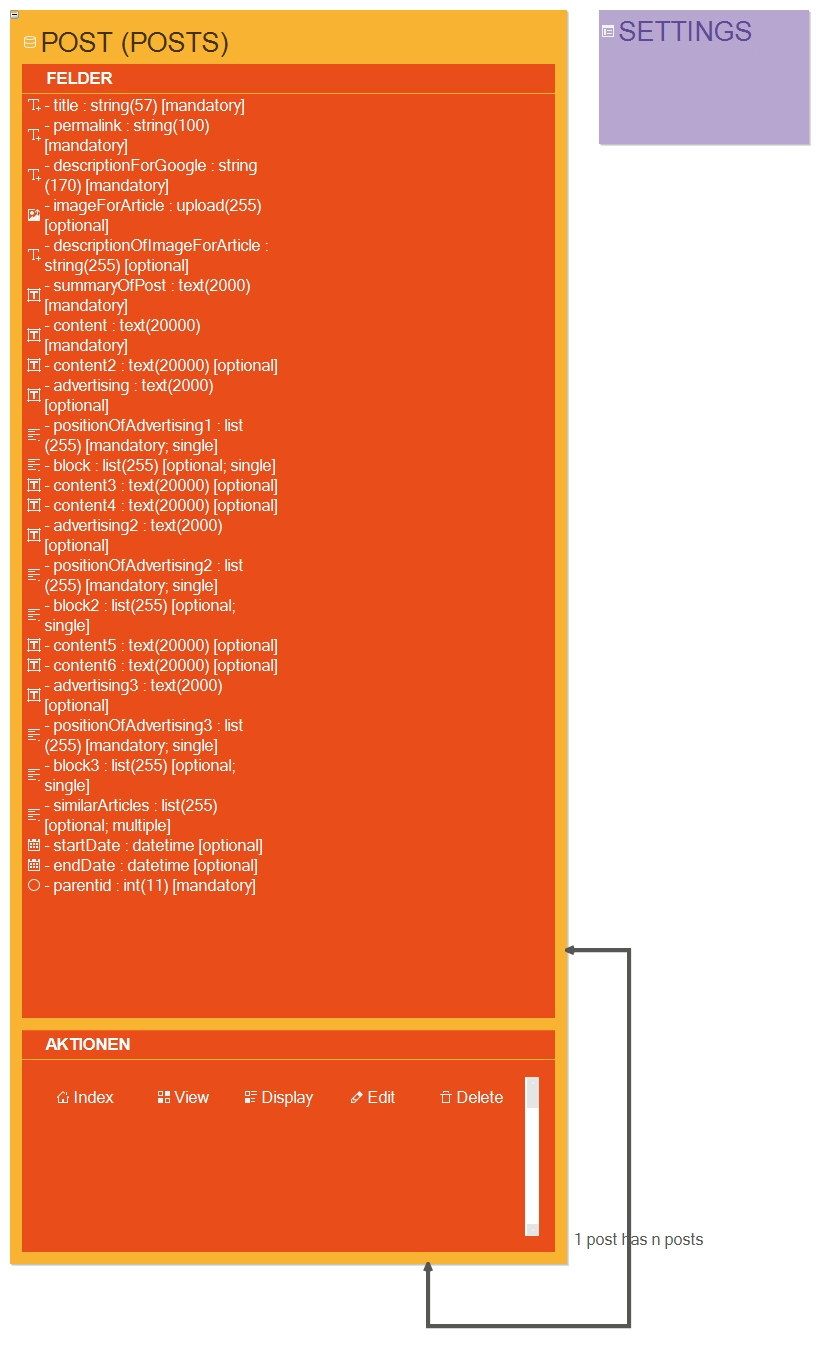
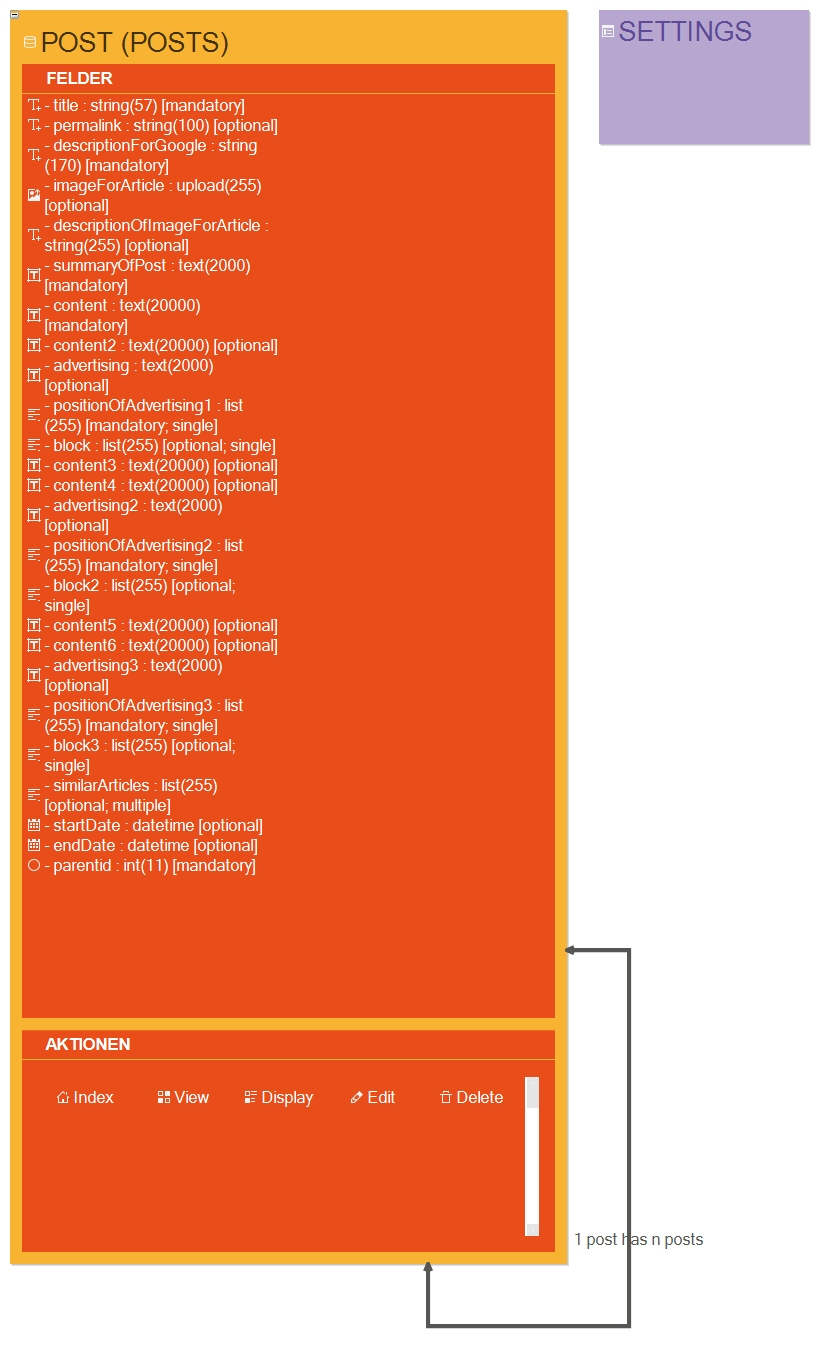
permalink not required
and if empty the title will put into

Changed region(s): [[0.0305, 0.0931, 0.335, 0.6824]]

diff --git a/MU/BloggingModule/Entity/PostEntity.php b/MU/BloggingModule/Entity/PostEntity.php
@@ -32,5 +32,17 @@ use Symfony\Bridge\Doctrine\Validator\Constraints\UniqueEntity;
  */
 class PostEntity extends BaseEntity
 {
-    // feel free to add your own methods here
+    /**
+     * Sets the permalink.
+     *
+     * @param string $permalink
+     *
+     * @return void
+     */
+    public function setPermalink($permalink)
+    {
+        if ($this->permalink !== $permalink) {
+            $this->permalink = isset($permalink) ? $permalink : $this->title;
+        }
+    }
 }

diff --git a/MU/BloggingModule/Form/Type/Base/AbstractPostType.php b/MU/BloggingModule/Form/Type/Base/AbstractPostType.php
@@ -157,7 +157,7 @@ abstract class AbstractPostType extends AbstractType
                 'class' => '',
                 'title' => $this->__('Enter the permalink of the post')
             ],
-            'required' => true,
+            'required' => false,
         ]);
         
         $builder->add('descriptionForGoogle', 'Symfony\Component\Form\Extension\Core\Type\TextType', [

diff --git a/MU/BloggingModule/Base/bootstrap.php b/MU/BloggingModule/Base/bootstrap.php
@@ -7,7 +7,7 @@
  * @author Michael Ueberschaer <info@homepages-mit-zikula.de>.
  * @link http://homepages-mit-zikula.de
  * @link http://zikula.org
- * @version Generated by ModuleStudio 0.7.4 (http://modulestudio.de) at Sat Apr 22 18:13:21 CEST 2017.
+ * @version Generated by ModuleStudio 0.7.4 (http://modulestudio.de) at Sat Apr 22 20:15:03 CEST 2017.
  */
 
 /**

diff --git a/MU/BloggingModule/bootstrap.php b/MU/BloggingModule/bootstrap.php
@@ -7,7 +7,7 @@
  * @author Michael Ueberschaer <info@homepages-mit-zikula.de>.
  * @link http://homepages-mit-zikula.de
  * @link http://zikula.org
- * @version Generated by ModuleStudio 0.7.4 (http://modulestudio.de) at Sat Apr 22 18:13:21 CEST 2017.
+ * @version Generated by ModuleStudio 0.7.4 (http://modulestudio.de) at Sat Apr 22 20:15:03 CEST 2017.
  */
 
 /**

diff --git a/MU/BloggingModule/Entity/Base/AbstractPostEntity.php b/MU/BloggingModule/Entity/Base/AbstractPostEntity.php
@@ -81,7 +81,7 @@ abstract class AbstractPostEntity extends EntityAccess implements Translatable
     /**
      * @Gedmo\Translatable
      * @ORM\Column(length=100)
-     * @Assert\NotBlank()
+     * @Assert\NotNull()
      * @Assert\Length(min="0", max="100")
      * @var string $permalink
      */
